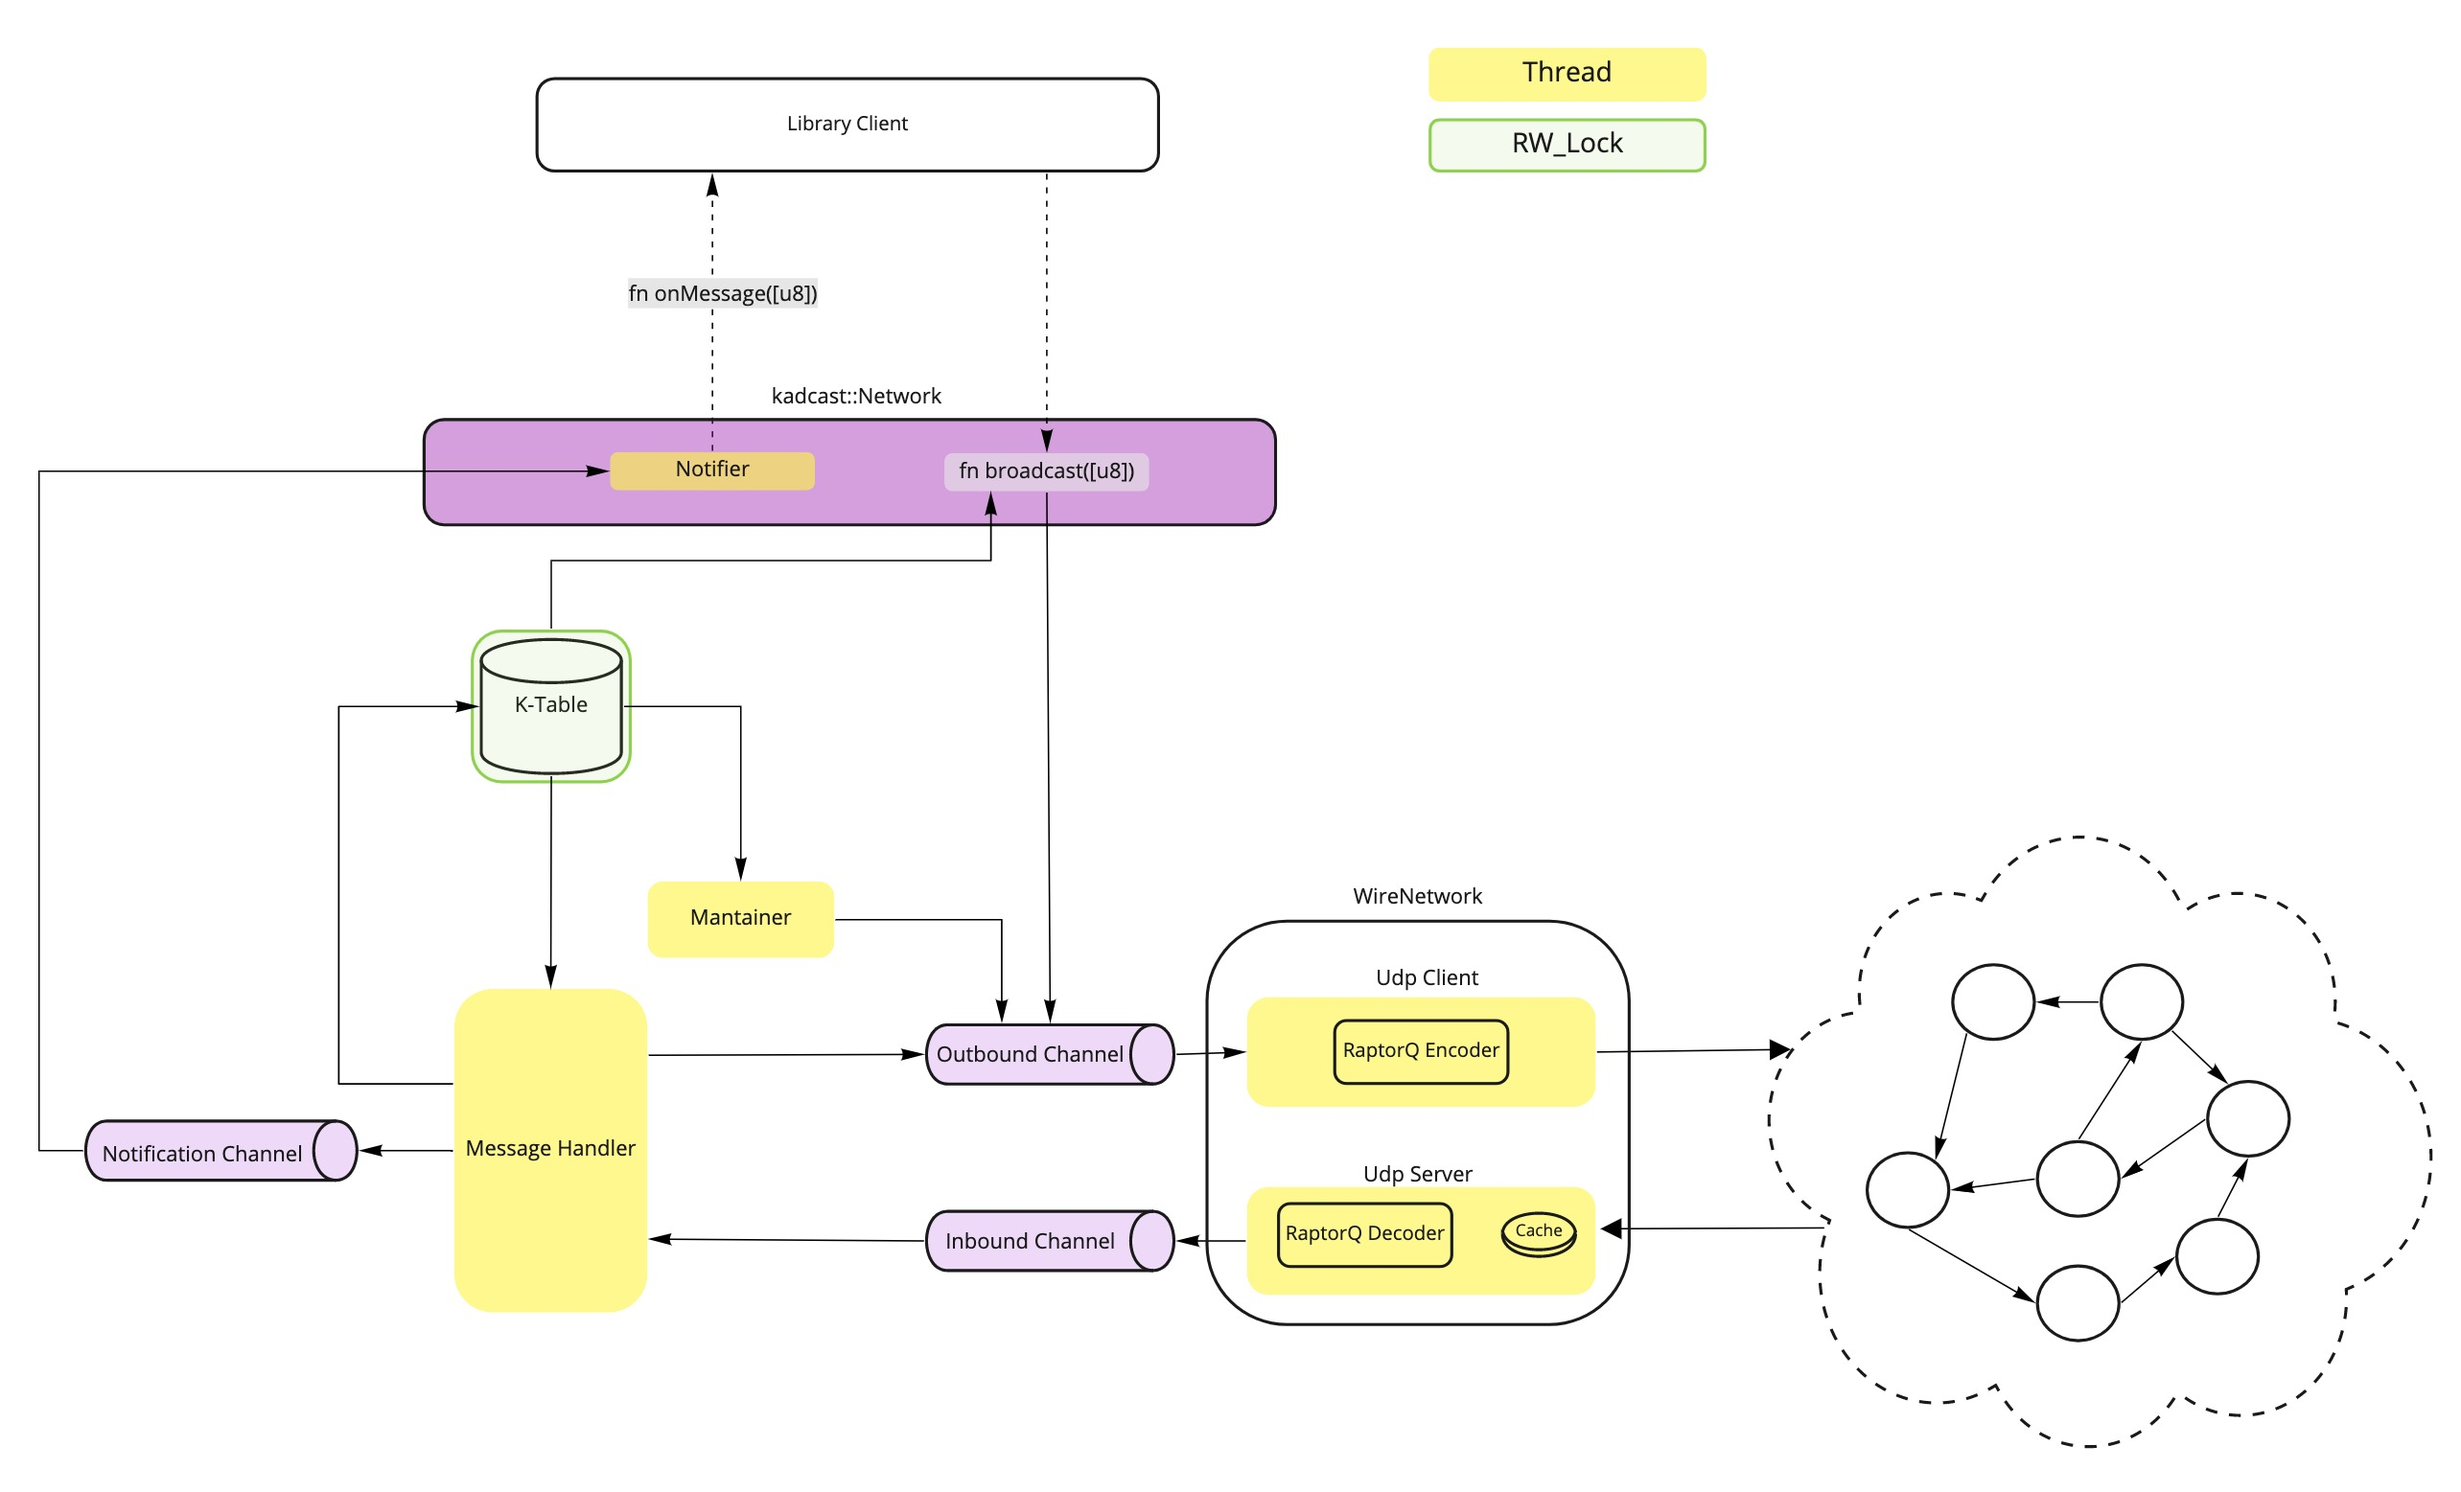
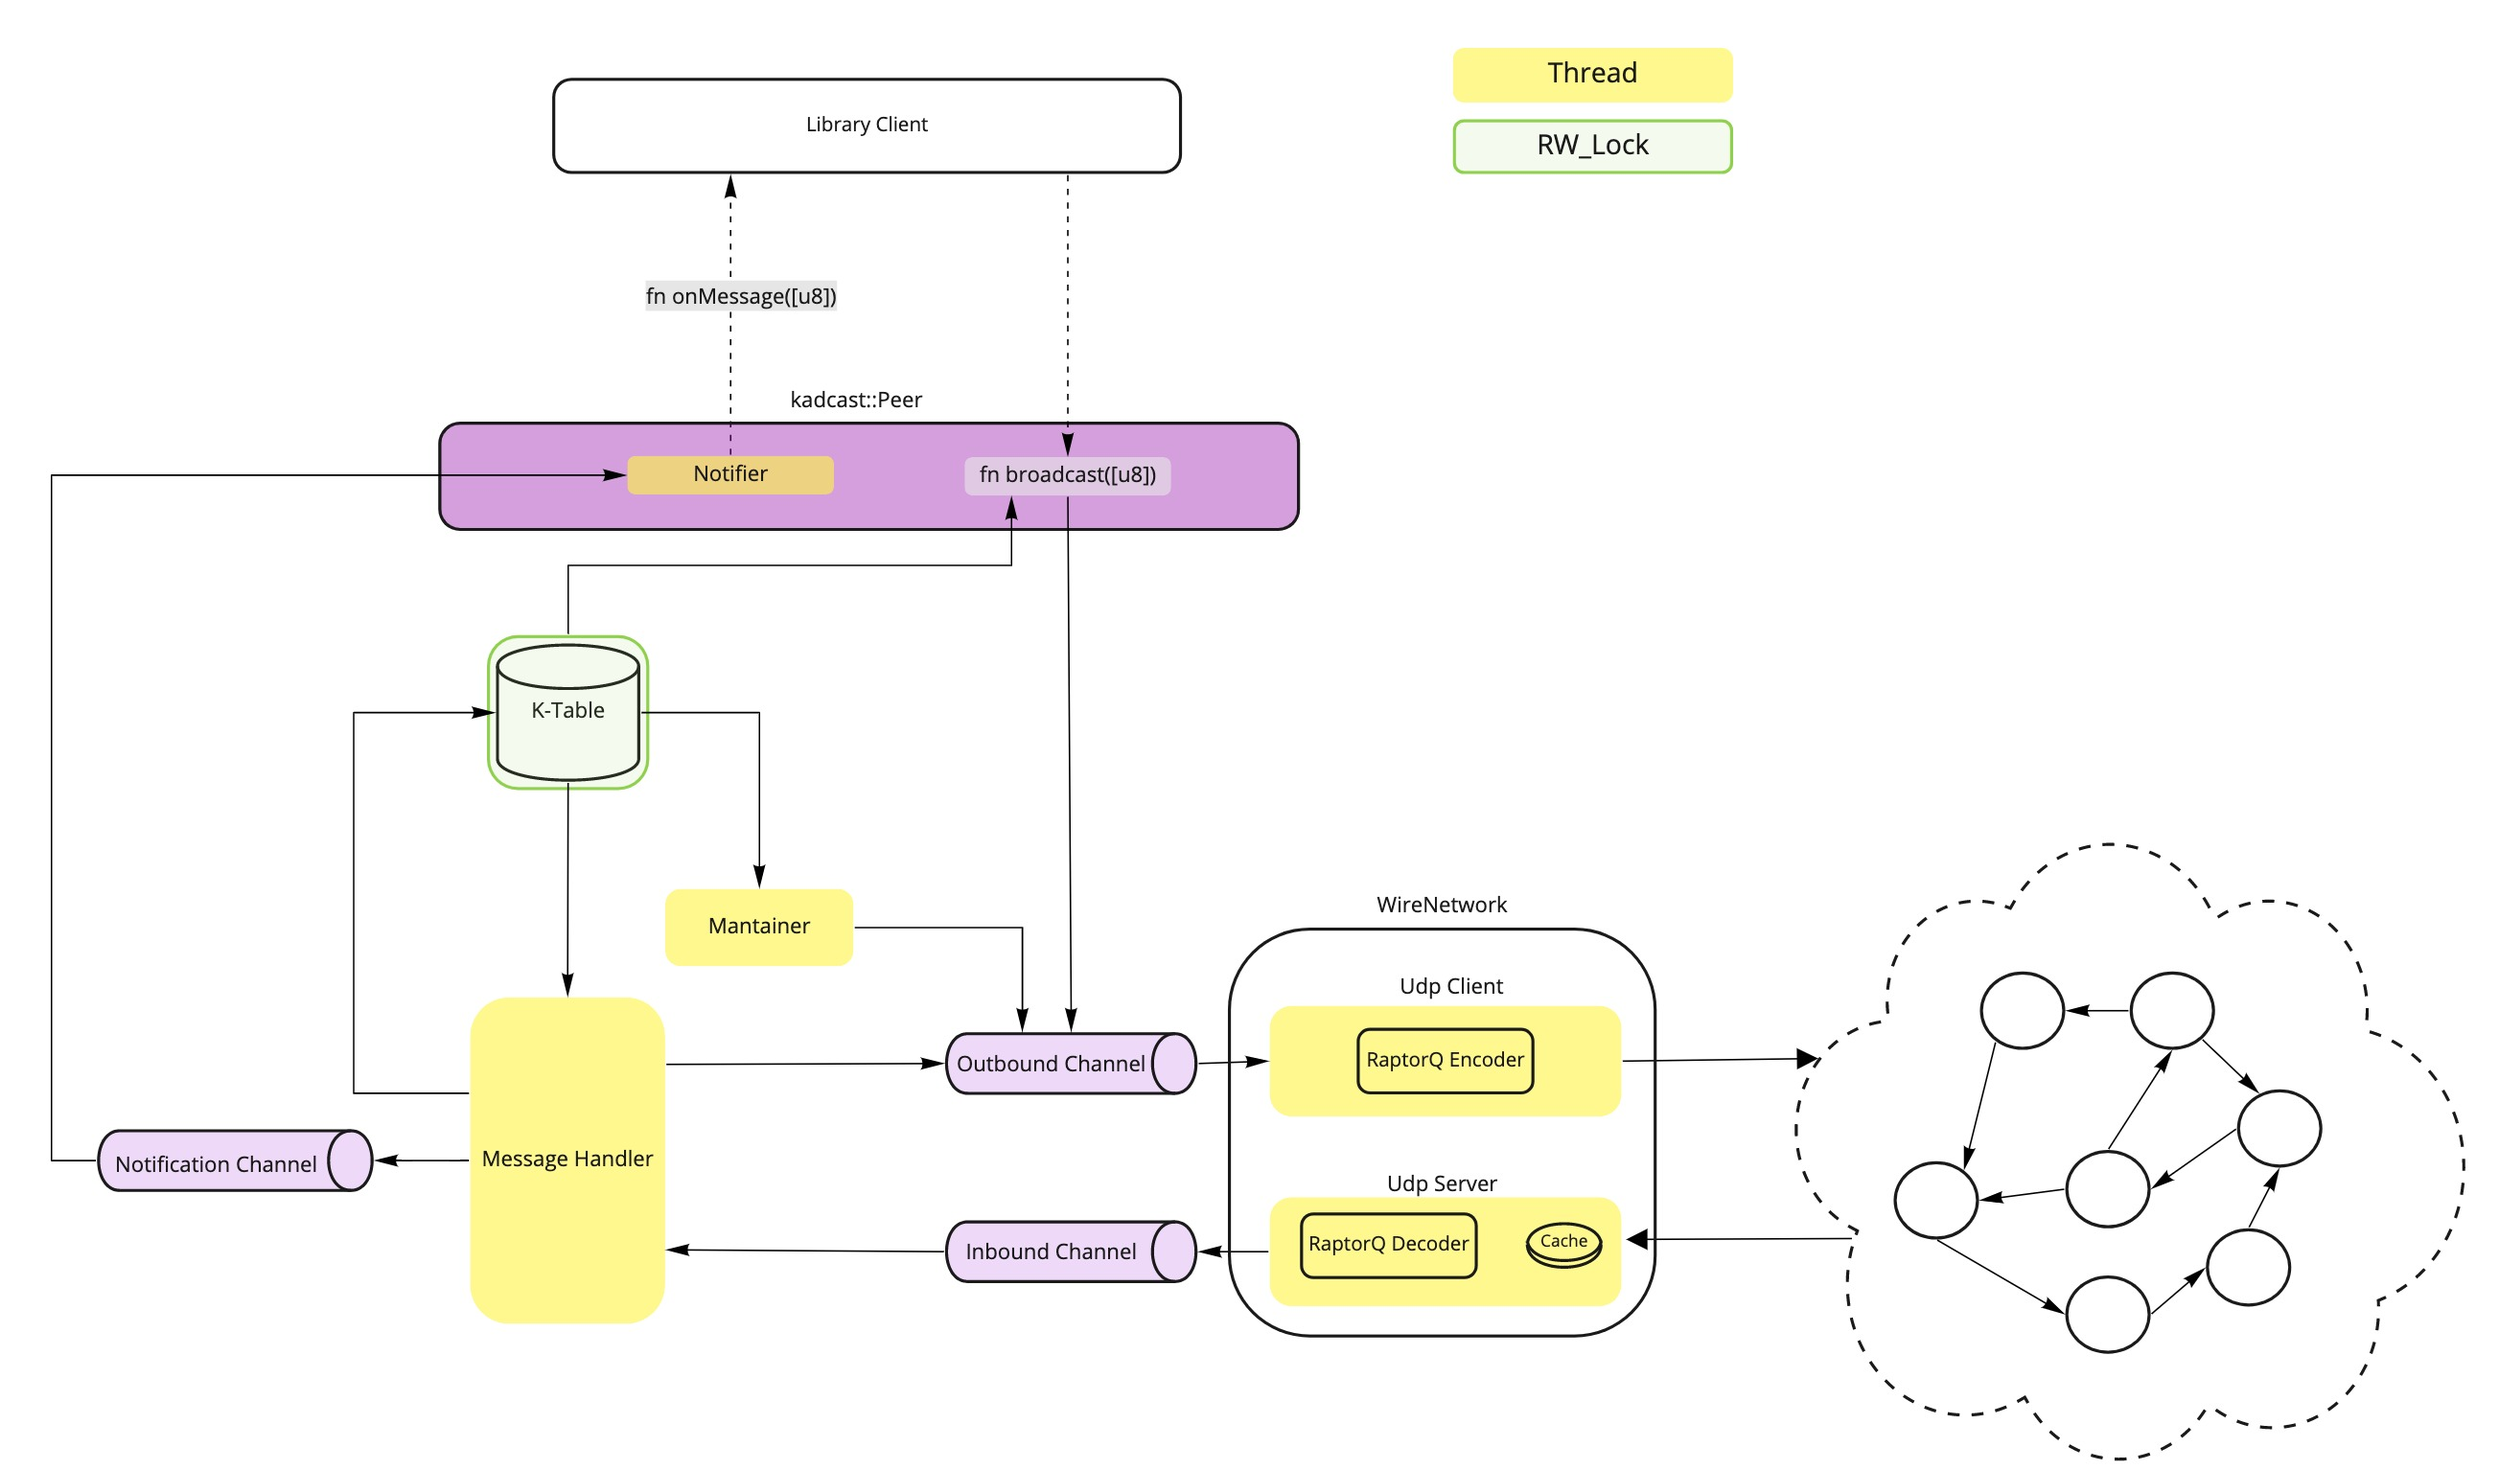
Add architecture explanation
Rename `kadcast::Server` to `kadcast::Peer`

diff --git a/src/lib.rs b/src/lib.rs
@@ -50,13 +50,13 @@ pub const BUCKET_DEFAULT_NODE_EVICT_AFTER_MILLIS: u64 = 5000;
 /// Default value after which a bucket is considered idle
 pub const BUCKET_DEFAULT_TTL_SECS: u64 = 60 * 60;
 
-/// Struct representing the Kadcast Network
-pub struct Server {
+/// Struct representing the Kadcast Network Peer
+pub struct Peer {
     outbound_sender: Sender<MessageBeanOut>,
     ktable: Arc<RwLock<Tree<PeerInfo>>>,
 }
 
-impl Server {
+impl Peer {
     fn new(
         public_ip: String,
         bootstrapping_nodes: Vec<String>,
@@ -68,7 +68,7 @@ impl Server {
         let (notification_channel_tx, listener_channel_rx) = mpsc::channel(32);
 
         let table = Arc::new(RwLock::new(tree));
-        let server = Server {
+        let peer = Peer {
             outbound_sender: outbound_channel_tx.clone(),
             ktable: table.clone(),
         };
@@ -88,8 +88,8 @@ impl Server {
             table,
             outbound_channel_tx,
         ));
-        task::spawn(Server::notifier(listener_channel_rx, on_message));
-        server
+        task::spawn(Peer::notifier(listener_channel_rx, on_message));
+        peer
     }
 
     async fn notifier(
@@ -136,9 +136,9 @@ impl Server {
         }
     }
 
-    /// Instantiate a [ServerBuilder].
+    /// Instantiate a [PeerBuilder].
     ///
-    /// * `public_ip` - public `SocketAddress` of the `Server`. No domain name
+    /// * `public_ip` - public `SocketAddress` of the [Peer]. No domain name
     ///   allowed
     /// * `bootstrapping_nodes` - List of known bootstrapping kadcast nodes. It
     ///   accepts the same representation of `public_ip` but with domain names
@@ -149,13 +149,13 @@ impl Server {
         public_ip: String,
         bootstrapping_nodes: Vec<String>,
         on_message: fn(Vec<u8>),
-    ) -> ServerBuilder {
-        ServerBuilder::new(public_ip, bootstrapping_nodes, on_message)
+    ) -> PeerBuilder {
+        PeerBuilder::new(public_ip, bootstrapping_nodes, on_message)
     }
 }
 
-/// ServerBuilder instantiates a Kadcast [Server].
-pub struct ServerBuilder {
+/// PeerBuilder instantiates a Kadcast [Peer].
+pub struct PeerBuilder {
     node_ttl: Duration,
     node_evict_after: Duration,
     bucket_ttl: Duration,
@@ -164,12 +164,12 @@ pub struct ServerBuilder {
     on_message: fn(Vec<u8>),
 }
 
-impl ServerBuilder {
+impl PeerBuilder {
     /// Sets the maximum duration for a node to be considered alive (no eviction
     /// will be requested).
     ///
     /// Default value [BUCKET_DEFAULT_NODE_TTL_MILLIS]
-    pub fn with_node_ttl(mut self, node_ttl: Duration) -> ServerBuilder {
+    pub fn with_node_ttl(mut self, node_ttl: Duration) -> PeerBuilder {
         self.node_ttl = node_ttl;
         self
     }
@@ -177,7 +177,7 @@ impl ServerBuilder {
     /// Set duration after which a bucket is considered idle
     ///
     /// Default value [BUCKET_DEFAULT_TTL_SECS]
-    pub fn with_bucket_ttl(mut self, bucket_ttl: Duration) -> ServerBuilder {
+    pub fn with_bucket_ttl(mut self, bucket_ttl: Duration) -> PeerBuilder {
         self.bucket_ttl = bucket_ttl;
         self
     }
@@ -188,7 +188,7 @@ impl ServerBuilder {
     pub fn with_node_evict_after(
         mut self,
         node_evict_after: Duration,
-    ) -> ServerBuilder {
+    ) -> PeerBuilder {
         self.node_evict_after = node_evict_after;
         self
     }
@@ -197,8 +197,8 @@ impl ServerBuilder {
         public_ip: String,
         bootstrapping_nodes: Vec<String>,
         on_message: fn(Vec<u8>),
-    ) -> ServerBuilder {
-        ServerBuilder {
+    ) -> PeerBuilder {
+        PeerBuilder {
             public_ip,
             bootstrapping_nodes,
             on_message,
@@ -211,15 +211,15 @@ impl ServerBuilder {
         }
     }
 
-    /// Builds the [Server]
-    pub fn build(self) -> Server {
+    /// Builds the [Peer]
+    pub fn build(self) -> Peer {
         let tree =
             TreeBuilder::new(PeerNode::from_address(&self.public_ip[..]))
                 .with_node_evict_after(self.node_evict_after)
                 .with_node_ttl(self.node_ttl)
                 .with_bucket_ttl(self.bucket_ttl)
                 .build();
-        Server::new(
+        Peer::new(
             self.public_ip,
             self.bootstrapping_nodes,
             self.on_message,

diff --git a/examples/main.rs b/examples/main.rs
@@ -5,7 +5,7 @@
 // Copyright (c) DUSK NETWORK. All rights reserved.
 
 use clap::{App, Arg};
-use kadcast::Server;
+use kadcast::Peer;
 use rustc_tools_util::{get_version_info, VersionInfo};
 use std::io::{self, BufRead};
 
@@ -75,7 +75,7 @@ pub async fn main() {
     tracing::subscriber::set_global_default(subscriber)
         .expect("Failed on subscribe tracing");
 
-    let server = Server::builder(
+    let peer = Peer::builder(
         public_ip.to_string(),
         bootstrapping_nodes,
         crate::on_message,
@@ -86,9 +86,9 @@ pub async fn main() {
         for message in stdin.lock().lines().flatten() {
             match &message[..] {
                 "report" => {
-                    server.report().await;
+                    peer.report().await;
                 }
-                v => server.broadcast(v.as_bytes()).await,
+                v => peer.broadcast(v.as_bytes()).await,
             }
         }
     }

diff --git a/ARCHITECTURE.md b/ARCHITECTURE.md
@@ -1,0 +1,33 @@
+# Internal Architecture
+
+![architecture](architecture.jpg)
+
+## kadcast::Peer
+Your entry point
+
+## Message Handler
+The core of the library. It handles the incoming messages and replies accordly to them
+
+## Mantainer
+Performs the initial bootstrap and starts the k-table maintenance. 
+Keep track of idle buckets and it's in charge of trigger the routing nodes lookup.
+
+## Wire Network
+It is responsible to instantiate the UDP server for receive the messages from the network. 
+It's in charge of outgoing communication too (UDP client).
+
+It performes message serialization/deserialization. If needed by the message type it applies the FEC encoding/decoding
+
+### RaptorQ Encoder
+Splits a single broadcast message in multiple chunks applying the RaptorQ FEC algorithm
+
+### RaptorQ Decoder
+Joins multiple encoded chunk in a single decoded broadcast message. It own a cache to avoid processing brodcasted identical messages multiple times
+
+## Channels
+### Inbound Channel
+Message passing between incoming UDP packets (deserialized by the WireNetwork) and Message Handler
+### Outbound Channel
+Channel dedicated to any message which need to be transmitted to the network.
+### Notification Channel
+Once a broadcast message has been successfully received, it's put on this channel to decouple the notificated thread execution to the rest of the library threads

diff --git a/README.md b/README.md
@@ -73,4 +73,4 @@ ATM, the paper gives solutions for DOS, Sybil and Eclipse attacks and obstructio
 
 ## Internal Architecture
 
-![architecture](architecture.jpg)
+For more information related to the internal architecture check [this](ARCHITECTURE.md)
